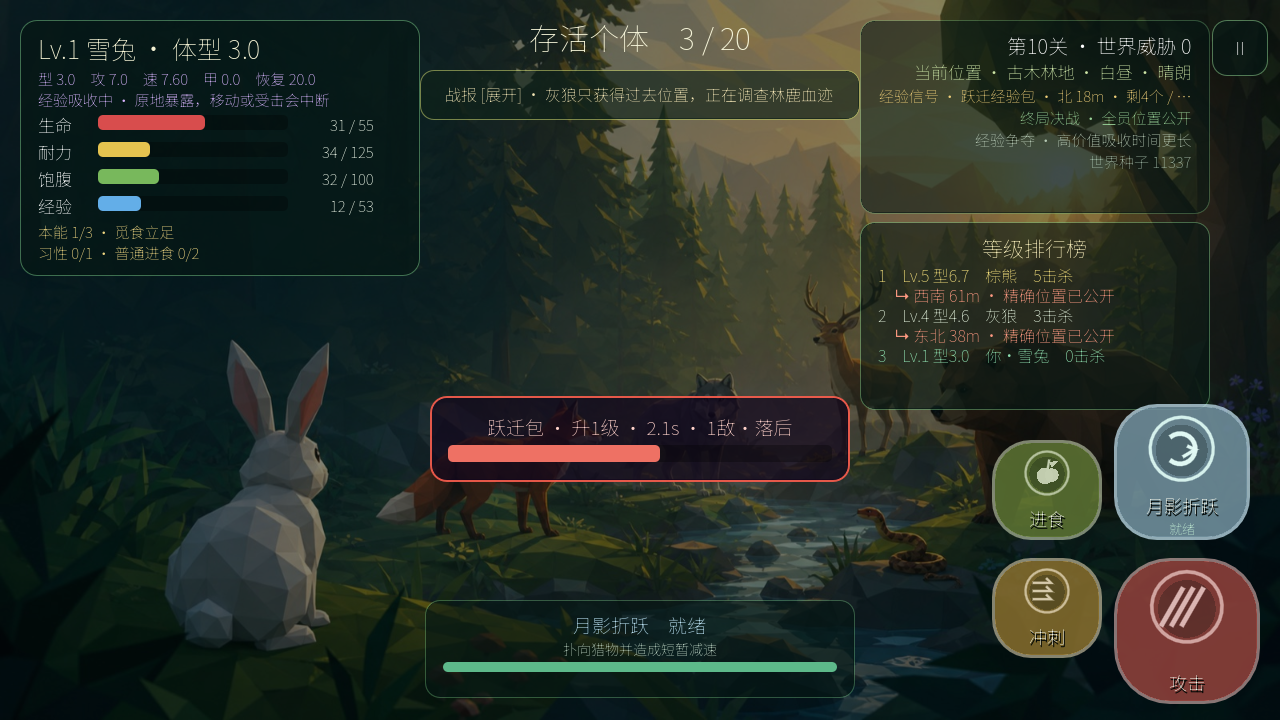
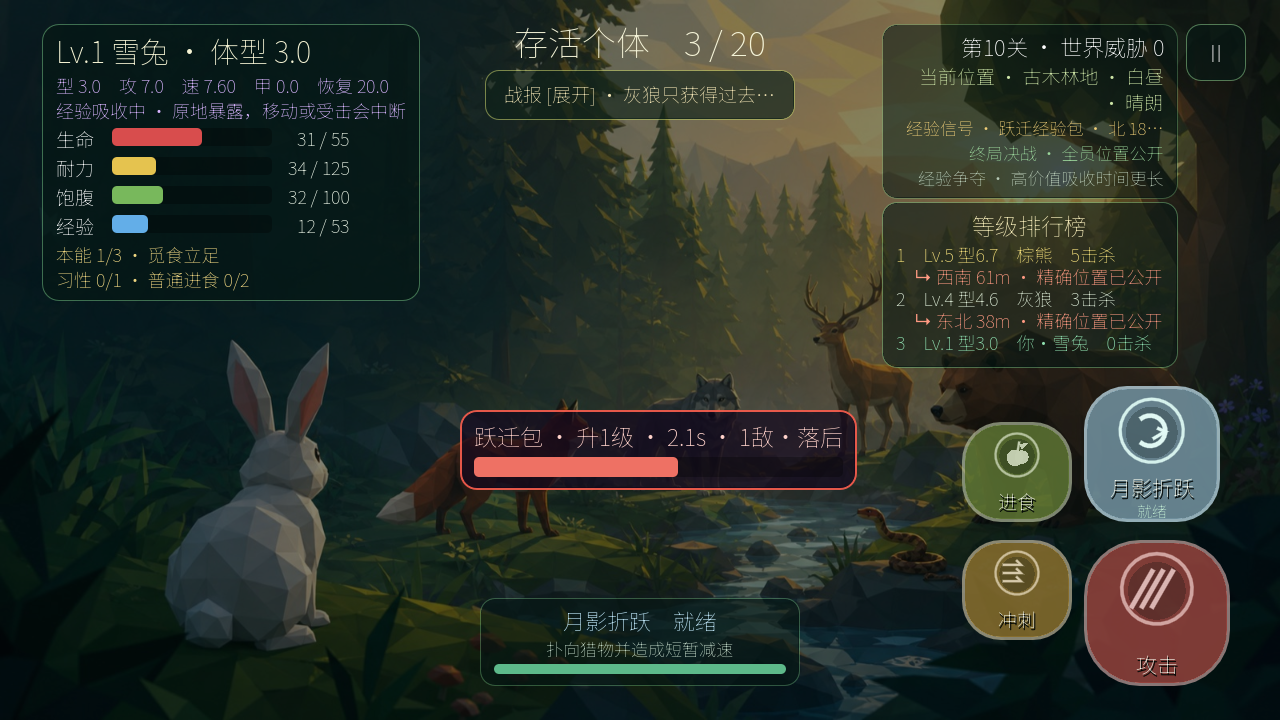
feat: require manual dismissal of species intro

diff --git a/docs/15_发布候选与真机验收.md b/docs/15_发布候选与真机验收.md
@@ -1,9 +1,9 @@
-# V1.65 发布候选与真机验收
+# V1.66 发布候选与真机验收
 
-版本：1.65（Android/iOS 构建号 770）
-候选状态：经验雨改为固定 60 秒全图周期，第 1–10 关按初始动物数分别投放 10–100 个包；四象限分层随机落点、56 秒单轮生命周期、原创三档 3D 能量核心和十关地图递增密度契约已接入。玩家与 AI 继续共享吸收、竞争、中断和升级规则。存档 schema 保持 5，不增加永久数据迁移。
+版本：1.66（Android/iOS 构建号 780）
+候选状态：每次开局的物种攻略简报新增“关闭并开始”按钮，取消 8 秒自动淡出。简报显示期间世界暂停、触控战斗层隐藏，只有玩家主动关闭后才进入正式生态竞争。存档 schema 保持 5，不增加永久数据迁移。
 
-![V1.65 全图经验雨与原创3D经验核心](images/v91-experience-pack-3d-rain.png)
+![V1.66 手动关闭的物种攻略简报](images/v28-species-habit-guide.png)
 
 ## 1. 发布门禁
 
@@ -22,7 +22,7 @@
 运行方式：
 
 ```bash
-./tools/build_release_candidate.sh /tmp/eco-rebirth-v165-rc
+./tools/build_release_candidate.sh /tmp/eco-rebirth-v166-rc
 ```
 
 正式候选还可加 `ECO_RC_SOAK=1`，自动追加第 1/10 关各两局完整生态收束模拟；普通候选保留该步骤为可选，以免每次小改动都执行数分钟长局。
@@ -33,13 +33,13 @@
 |---|---|---|
 | Godot 解析 | 通过 | Godot 4.7.1 Compatibility |
 | 30 物种数据 | 通过 | 数值、技能、习性、成长、关卡池 |
-| 发布契约 | 通过 | 第 1/10 关分别实例化 10/100 个经验包；60 秒周期、56 秒生命周期、四象限覆盖、深水/障碍避让、1.05 米净空、3 米间距、原创双锥晶体与 140→470 米地图递增密度契约均通过；30 物种、schema 5 与 Mobile 129,202 / 140,000 顶点保持通过 |
+| 发布契约 | 通过 | 物种简报必须保持显示、关闭按钮高度至少 52 逻辑像素、按下后才发出恢复信号；主流程 `intro`暂停状态、自动烟测跳过及原有 30 物种/schema 5/移动顶点契约保持通过 |
 | 运行烟测 | 通过 | 正常主场景 1200 帧，无脚本错误 |
-| 性能门禁 | 通过 | Headless 固定种子 L1/L5/L10 均为 60.0 FPS，物理平均 4.95/8.02/11.73 ms，内存 100.2/123.5/149.3 MiB；图形后端第 10 关 63 秒长样本覆盖首轮 100 包投放，仍为 59.2 FPS，进程平均/峰值 13.25/76.79 ms，物理平均 9.15 ms |
+| 性能门禁 | 通过 | L1/L5/L10 均为 60.0 FPS；物理平均 3.79/7.39/11.03 ms，内存 99.6/122.9/148.7 MiB；自动基准显式跳过手动开局确认 |
 | 完整生态收束 | 通过 | 固定种子第 1 关在 191.7 秒产生唯一胜者，AI 吸收 20 包、获得 371 经验，0 饥饿/溺水死亡；第 10 关 100 动物在 859.9 秒产生唯一胜者，AI 吸收 759 包、获得 51,076 经验，10 次饥饿、1 次溺水、0 次超时 |
-| Web | 通过 | `index.html/js/wasm/pck` 完整 |
-| Pages CI | 本地契约通过 | 发布前门禁完整，官方 Actions 使用 Node.js 24 对应主版本；V1.65 推送后需等待线上工作流完成 |
-| iOS 工程 | 通过 | 1.65/build 770 Release、iphoneos、关闭签名的 arm64 原生可执行文件已编译；真机签名与安装仍需人工执行 |
+| Web | 通过 | `index.html/js/wasm/pck` 四项发布产物完整并进入 SHA-256 清单 |
+| Pages CI | 待推送 | V1.66 推送后等待线上工作流完成 |
+| iOS 工程 | 通过 | 1.66/build 780 Release、iphoneos、关闭签名的 arm64 原生可执行文件已完成编译并进入 SHA-256 清单 |
 | Android | 环境阻塞 | 已有 Godot 模板和 JDK 17；缺 Platform 36、Build Tools 35.0.1、adb，Google SDK 许可尚未接受 |
 | iPhone 真机 | 待人工验收 | 本次已通过关闭签名的 arm64 构建，但未执行安装、触控、帧率或温度验收 |
 
@@ -52,6 +52,7 @@
 | 场景 | Web 手机 | Android 真机 | iPhone 真机 |
 |---|---|---|---|
 | 横屏两个方向与安全区 | 待验收 | 待验收 | 待验收 |
+| 每次开局物种简报持续显示；右上“关闭并开始”触摸区清晰；点击前世界暂停、摇杆/战斗键隐藏，点击后才恢复 | 自动回归与预览通过，真机待验收 | 自动回归与预览通过，真机待验收 | 自动回归与预览通过，真机待验收 |
 | 左侧任意位置动态摇杆 | 待验收 | 待验收 | 待验收 |
 | 按住摇杆并按攻击、技能、进食、冲刺；摇杆不跳位且首指可继续移动 | 自动回归通过，真机待验收 | 自动回归通过，真机待验收 | 自动回归通过，真机待验收 |
 | 30 种字体、图鉴滚动、结算滚动 | 待验收 | 待验收 | 待验收 |
@@ -66,7 +67,7 @@
 | Lv.1→10 模型、碰撞、血量、攻击、速度和涉水线连续增长 | 待验收 | 待验收 | 待验收 |
 | Lv.3/6/9 三路线选择完整、按钮不遮挡、选择后恢复游戏 | 待验收 | 待验收 | 待验收 |
 | 三段生态本能在左上持续显示；偏好觅食/普通进食、主场迁徙/反制、击倒/助攻均能推进，完成提示和奖励清晰 | 自动回归通过，真机待验收 | 自动回归通过，真机待验收 | 自动回归通过，真机待验收 |
-| 开局 8 秒玩家与 AI 均不会受伤；入场简报可完整阅读，攻击或技能解除自身保护 | 自动回归通过，真机待验收 | 自动回归通过，真机待验收 | 自动回归通过，真机待验收 |
+| 关闭简报后 8 秒内玩家与 AI 均不会受伤；攻击或技能解除自身保护 | 自动回归通过，真机待验收 | 自动回归通过，真机待验收 | 自动回归通过，真机待验收 |
 | 普通/富集/珍稀食物可辨，玩家与 AI 都会争夺并正确获得经验 | 待验收 | 待验收 | 待验收 |
 | 经验雨严格每60秒刷新；第1–10关分别生成10–100个包；四象限分布且上一轮不会叠加 | 自动回归与预览通过，真机待验收 | 自动回归与预览通过，真机待验收 | 自动回归与预览通过，真机待验收 |
 | 青/紫/金三档3D能量晶体、轨道碎片、地面基座和近距经验文字清楚，100包同时存在时不卡顿 | 自动预览与 63 秒图形长性能样本通过 | 自动预览通过，真机待验收 | 自动预览通过，真机待验收 |
@@ -88,7 +89,7 @@
 ## 4. 发布材料
 
 - 游戏名称：《生态轮回》/ Eco Rebirth；
-- 版本：1.65，构建号 770；
+- 版本：1.66，构建号 780；
 - 支持：Web、Android 7.0+（API 24）、iOS 15+；
 - 方向：仅横屏，支持左右两个横屏方向；
 - 联网：游戏逻辑不需要账号或网络；网页版仅从 GitHub Pages 下载静态资源；

diff --git a/README.md b/README.md
@@ -1,6 +1,6 @@
 # 《生态轮回》游戏设计文档
 
-版本：发布候选 V1.65 RC1 + GDD V1.0
+版本：发布候选 V1.66 RC1 + GDD V1.0
 状态：自动化发布门禁已通过，等待 Android/iOS 实体设备最终验收
 引擎：Godot 4.7.1  
 视角：3D 斜俯视角
@@ -10,6 +10,10 @@
 打开 [《生态轮回》网页版](https://976971956.github.io/eco-rebirth/) 即可直接开始游戏。电脑支持键盘操作，手机支持左侧动态摇杆与右侧技能按钮。
 
 ## 可玩版本
+
+V1.66 将每次开局的物种攻略简报改为手动确认。弹窗右上方新增“关闭并开始”按钮，不再 8 秒后自动消失；玩家阅读期间生态世界暂停，摇杆和战斗键隐藏，只有点击关闭按钮才会恢复游戏。关闭后仍保留 8 秒生态建立保护，不会因阅读时间过长而被 AI 偷袭。
+
+![V1.66 手动关闭的物种攻略简报](docs/images/v28-species-habit-guide.png)
 
 V1.65 将进化能量雨改为固定的全图成长节奏。开局 60 秒后首次投放，此后每 60 秒刷新一轮，经验包数量与本关初始动物数保持 1:1：第 1 关 10 个、第 2 关 20 个，逐关增加到第 10 关 100 个。落点使用覆盖全地图四象限的分层随机网格，并继续避开深水、障碍和收束区，保留 1.05 米大型动物净空与 3 米包间距；单轮只持续 56 秒，不会跨轮无限堆积。十关地图继续随人口从 140×140 米扩大到 470×470 米，每只动物保持约 1,750–2,250 平方米生态空间。
 

diff --git a/BUILDING.md b/BUILDING.md
@@ -1,4 +1,4 @@
-# 《生态轮回》V1.65 RC1 运行与导出
+# 《生态轮回》V1.66 RC1 运行与导出
 
 ## 直接运行
 
@@ -27,6 +27,8 @@ godot --path .
 | 暂停 | Esc | 右上暂停按钮 |
 
 普通攻击只在攻击范围内触发。食草物种吃绿色植物，肉食物种吃尸体，狐狸和熊两者都能吃。
+
+V1.66 的开局物种攻略简报不再自动消失。游戏会在简报期间暂停并隐藏触控战斗键，点击右上“关闭并开始”后才进入生态世界；自动烟测和性能基准会跳过人工确认。候选运行 `./tools/build_release_candidate.sh /tmp/eco-rebirth-v166-rc`。
 
 V1.65 将经验雨固定为 60 秒全图周期，并按关卡初始动物数投放 10/20/…/100 个经验包。分层随机网格覆盖四象限，落点避开深水和障碍、保留 1.05 米净空与 3 米间距，56 秒后消散以避免跨轮堆积；十关地图继续从 140×140 米扩大到 470×470 米。普通、丰厚和跃迁包使用新的双锥晶体、轨道碎片与地面信号基座。候选运行 `./tools/build_release_candidate.sh /tmp/eco-rebirth-v165-rc`。
 
